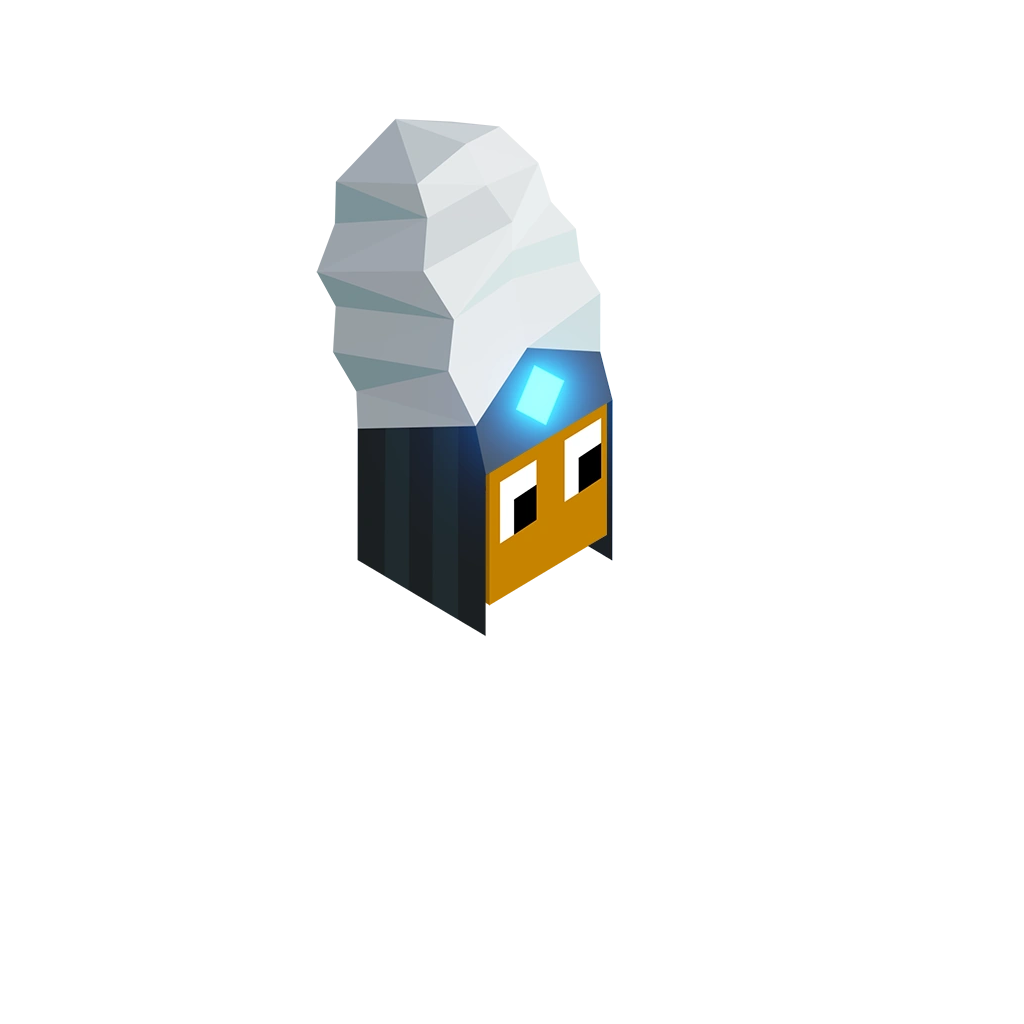
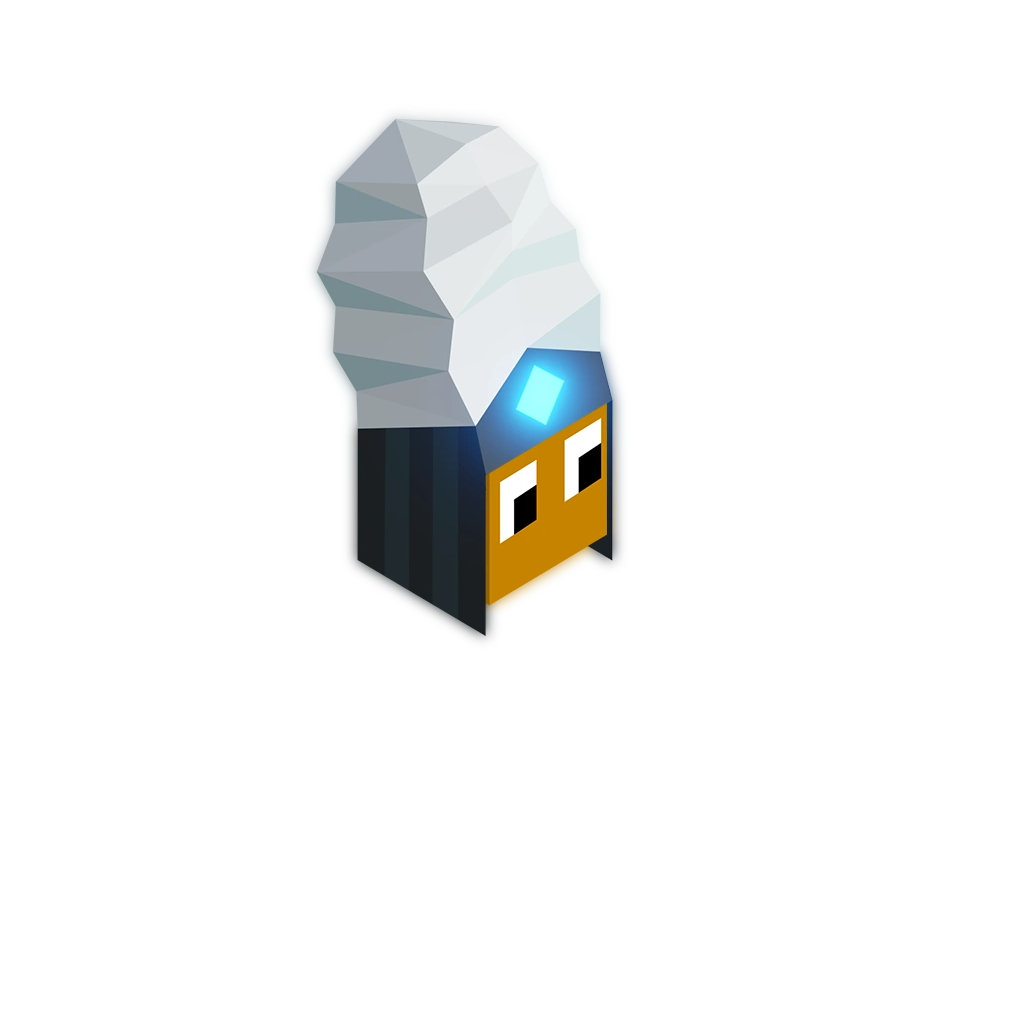
sparksprites

diff --git a/src/Lightning.cs b/src/Lightning.cs
@@ -66,7 +66,7 @@ public class LightningStrikeAction : PolibActionBase
             }
             for ( int i = 0; i < LightningManager.GetLightningPop(data.type); i++)
             {
-                state.ActionStack.Add(new IncreasePopulationAction(state.CurrentPlayer, tile.coordinates, tile.rulingCityCoordinates, 20));
+                state.ActionStack.Add(new IncreasePopulationAction(tile.owner, tile.coordinates, tile.rulingCityCoordinates));
             }
             groundingImprovementCount++;
         }